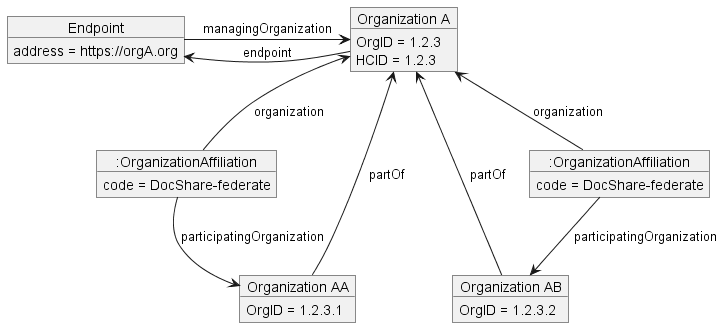
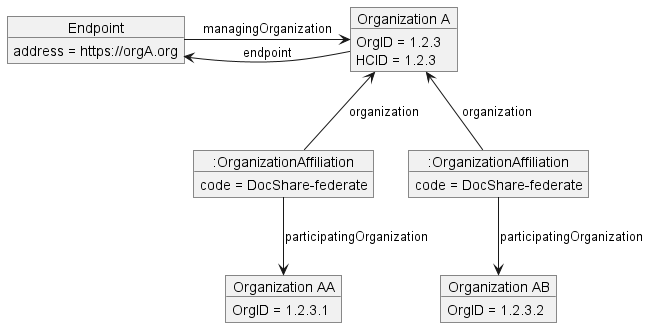
Add directory perspective

diff --git a/topologies.md b/topologies.md
@@ -154,6 +154,14 @@ The Responding Gateway is the access point for actors belonging to other network
 Network Gateways expose the same interfaces and are interacted with in the same way as community gateways. The difference is that a Network Gateway might provide access to several communities. 
 Therefore, where network gateways are used, participants can interact with the network gateway in the same way as a community gateway, with the caveat that the network gateway might process information for several Home Community IDs. 
 
+### Transparent Proxy
+
+A **Transparent Proxy** is similar to a network gateway in that it brokers access across network boundaries. However, it is different in that a Transparent Proxy has no internal business logic - it exists solely to broker trust across the network boundary, and possibly provide translation services. 
+
+For example, suppose network 1 exists and is running smoothly, with trust between nodes being managed by a Certificate Authority internal to the network. However, that network then wants to join a higher level network, network 2, so its participants get access to the participants of the higher level, and vice versa. In order to ease the burden of federating trust across the multiple networks, network 1 might introduce a transparent proxy into its infrastructure. That proxy would trust, and be trusted by, the members of network 1, and also the other members of the higher level network 2. The transparent proxy would simply forward requests and responses in both directions across the network boundary, accessing network 1 on behalf of network 2, and network 2 on behalf of network 1. 
+
+A transparent proxy need not be represented in a directory, because systems on the network will not necessarily be aware of its existence. From their perspective, they are talking directly to the system behind the proxy, thus why the proxy is "transparent". 
+
 ### Central Network Directory
 
 Systems in a network require a method for discovering one another. 
@@ -439,13 +447,16 @@ Finally, the Practitioner and PractitionerRole Resources provide information abo
 They are relevant to DocumentSharing in that they will commonly be referenced in documents and their metadata, but they are also relevant for message delivery use cases in the event a message needs to be delivered to an individual. 
 
 Directory policy will dictate the relationships between these Resources in the directory. 
-A key decision that needs to be made is the primary hierarchy of the directory, that is, what Organization.partOf represents. 
+A key decision that needs to be made is the primary hierarchy of the directory, i.e. what Organization.partOf represents. 
 If the directory is comprehensive, it will need to represent multiple hierarchies, and so all but one will need to be represented using OrganizationAffiliation Resources rather than Organization.partOf relationships. 
 The value set of OrganizationAffiliation.code will also be critically determined by the directory policy, since consumers of the directory will need to know how to interpret each hierarchy. 
+When deciding how Organization, Endpoint, and OrganizationAffiliation Resources should be layed out in the directory, the trust policy of the network and the perspective of actors in the directory should be considered. 
+Nodes in the network will need to be able to determine which endpoints are reachable by them from both an IP networking and a trust perspective. 
+Careful planning of the directory structure can facilitate the programmatic discovery of electronically reachable Organizations. 
 
 ### Indicating Document Sharing Connectivity
 
-Document Sharing relationships might be expressed in the directory via Organization.partOf or by use of the OrganizationAffiliation Resource.
+As stated previously, document Sharing relationships might be expressed in the directory via Organization.partOf or by use of the OrganizationAffiliation Resource.
 
 Organization.partOf is the simplest way to represent a relationship between two Organizations.
 When child organizations have a partOf relationship with a parent, there is ambiguity around whether requesting data from, or delivering messages to, the parent organization will return data from, or route the message to, the child organizations. 
@@ -454,15 +465,25 @@ The DocShare-federate code implies that children are accessible for all document
 mCSD might declare a more granular set of OrganizationAffiliation codes in the future to help facilitate this level of nuance.
 
 Because the use of partOf is not explicit in whether it signifies that a parent Organization provides document sharing access to its children, directory policy will need to clarify the meaning of partOf with respect to Document Sharing. 
-Possible clarifications would include:
+Directory policy that declares organizational hierarchy via partOf implies accessibility to child entries, meaning:
+- For FHIR REST endpoints, the URL is simply the Service Base URL as specified in [FHIR R4 3.1.0.1.2](http://hl7.org/fhir/R4/http.html#general). 
+Clients can expect to find resources related to Organizations A, B and C.
+- For XCA endpoints, a client querying Organization A for documents (e.g., using \[ITI-38\]) may receive documents from Organizations A, B and C. 
+- For XDR endpoints, a client sending a Provide and Register Document Set-b (\[ITI-41\]) request to Organization A can optionally specify Organizations B and/or C in intendedRecipient.
+- For MHD endpoints, a client sending a Provide Document Bundle (\[ITI-65\]) request to Organization A can optionally specify Organizations B and/or C in intendedRecipient.
+
+Examples of this kind of federated structure are shown in [ITI TF-1: Appendix E.9](https://profiles.ihe.net/ITI/TF/Volume1/ch-E.html#E.9.3) for XCA Responding Gateways.
+
+Possible declarations of partOf relationships could include:
 - Declaring that partOf shall be used to signify a Document Sharing relationship rather than or in addition to business relationships.
-In this case, OrganizationAffiliation might not be used, but this case is also the most restrictive in preventing the directory from acquiring new, more comprehensive data sets in the future. 
+In this case, OrganizationAffiliation might not be used, but this case is also the most restrictive and least capable of conveying hierarchical nuance. 
 - Declaring that partOf may indicate that the parent provides Document Sharing Access, but only if the child Organization in question has no Endpoints of its own and no OrganizationAffiliation resources with it as a participatingOrganization and a code indicating document sharing access. 
 - Declaring that partOf has no relationship to document sharing and any organizations that provide document sharing access to children must be linked to the children with an OrganizationAffiliation with an appropriate code. 
 This is the most explicit policy, but one that might be operationally cumbersome to maintain. 
 
-In all three cases, the Endpoint Discovery Algorithm in section below will identify a suitable endpoint if one exists. 
-However, it might be ambiguous whether a particular child organization can have data retrieved through its parent when partOf is used and both the child and the parent have endpoints, or when children are in the directory for informational purposes and do not actually have document sharing available. 
+In all three cases, the Endpoint Discovery Algorithm later in this section will identify an endpoint if one exists. 
+However, the endpoint discovery algorithm will require further configuration to align the notion of a "suitable" endpoint with directory policy. 
+For example, if the directory policy declares that Organization.partOf shall not be used to convey document sharing relationships, then the Endpoint Discovery Algorithm should be configured to not traverse those relationships. 
 
 ### Example Community Directory Layouts
 
@@ -478,20 +499,19 @@ This results the the simplest case shown below:
 
 **Figure 1:46.8.1-1: Organization-specific Endpoint Hosted by the Organization**
 
-Suppose instead Organization A is a subsidiary of its parent, B. B provides IT services and support to its subsidiaries, but the subsidiaries have complete control over their endpoints including the data they return and the trust relationships with those that might want access to the endpoint. 
-In this case, B would be the managing organization and A is part of B, but the Endpoint is pointed at by Organization A to communicate that the Endpoint is logically "owned by" A:
+Suppose instead Organization A is a subsidiary of its parent, B. B provides IT services and support to its subsidiaries, but each subsidiary has a unique document sharing endpoint that behaves identically to if it had hosted its own endpoint. The Endpoint is pointed at by Organization A to communicate that the Endpoint is logically "owned by" A, while it points to B as the managingOrganization to indicate that B is providing technical support for the endpoint:
 
 ![Organization Specific Endpoint Hosted by a Parent](images/dir-org-specific-endpoint-parent.png)
 
 **Figure 1:46.8.1-2: Organization-specific Endpoint Hosted by Parent**
 
-Suppose a similar relationship between organizations C and D, but where D is not a parent organization to C, rather it is a third party affiliate that provides IT services and support. In that case, use of the OrganizationAffiliation resource is more appropriate:
+Suppose a similar relationship between organizations C and D, but where D is not a parent organization to C, rather it is a third party affiliate that provides IT services and support. In that case, the OrganizationAffiliation Resource might be used to convey the relationship rather than Organization.partOf:
 
 ![Organization Specific Endpoint Hosted by an Affiliate](images/dir-org-specific-endpoint-affil.png)
 
 **Figure 1:46.8.1-3: Organization-specific Endpoint Hosted by Affiliation**
 
-Another similar relationship between E and F might exist, but E handles support for other entities on the network. In that case, E is still the managing organization, and F need not be represented in the directory at all:
+Another similar relationship between E and F might exist, but E handles network support for its own endpoint. In that case, E is still the managing organization, and F need not be represented in the directory at all:
 
 ![Organization Specific Endpoint Hosted By Unrepresented Intermediary](images/dir-org-specific-endpoint-inter.png)
 
@@ -499,8 +519,13 @@ Another similar relationship between E and F might exist, but E handles support 
 
 Consider another pair of organizations, G and H. H provides document sharing infrastructure services to G by providing G with an endpoint specific to its organization, but H manages the endpoint entirely, including managing trust for outside entities. 
 That is to say, outside entities can exchange data with G if they have a trust relationship with H. 
+In this situation, it can be said that H is acting as a transparent proxy for G. 
 
-In this case, it is more appropriate to point to the Endpoint for G from the OrganizationAffiliation Resource that connects G and H, to indicate that while the Endpoint provides data for G, it really belongs to H from a trust perspective. 
+Pointing to G's Endpoint from an OrganizationAffiliation linking G to H is likely to be a good choice to represent this situation. 
+If the endpoint were to be pointed to by H, it is not clear that data for H would not be returned by that endpoint, and H might have multiple affiliated organizations for which it needs to provide endpoints. 
+Pointing at G's endpoint from G's Organization resource could work if the directory enforces that only a single route to G exist. 
+However, if G needs multiple endpoints to support different affiliated organizations that provide access to it, then it would be challenging to differentiate the different endpoints attached to G. 
+In this example, OrganizationAffiliation allows the Endpoint to be declared specific to G while still making it clear that it is affiliated with H. 
 
 ![Organization Specific Endpoint Controlled by Affiliate](images/dir-org-specific-endpoint-from-affil.png)
 
@@ -517,51 +542,38 @@ An organization might be a member of, and reachable by, multiple networks. If ea
 #### Endpoint to a Structure
 
 It is possible for an organization with an endpoint, such as Organization A, to have other Organizations that point to it via partOf. 
-This would be appropriate in the case of subsidiaries or departments within Organization A:
+This would be commonly used in the case of subsidiaries or departments within Organization A:
 
 ![Endpoint to Parent Organization](images/dir-endpoint-to-org-hierarchy.png)
 
 **Figure 1:46.8.2-1: Endpoint to Parent Organization**
 
-Directory policy will determine whether organizational hierarchy via partOf implies accessibility to child entries, for example:
-- For FHIR REST endpoints, the URL is simply the Service Base URL as specified in [FHIR R4 3.1.0.1.2](http://hl7.org/fhir/R4/http.html#general). 
-Clients can expect to find resources related to Organizations A, B and C.
-- For XCA endpoints, a client querying Organization A for documents (e.g., using \[ITI-38\]) may receive documents from Organizations A, B and C. 
-- For XDR endpoints, a client sending a Provide and Register Document Set-b (\[ITI-41\]) request to Organization A can optionally specify Organizations B and/or C in intendedRecipient.
-- For MHD endpoints, a client sending a Provide Document Bundle (\[ITI-65\]) request to Organization A can optionally specify Organizations B and/or C in intendedRecipient.
-
-Examples of this kind of federated structure are shown in [ITI TF-1: Appendix E.9](https://profiles.ihe.net/ITI/TF/Volume1/ch-E.html#E.9.3), for XCA Responding Gateways.
-
-Because the cardinality of Organization.partOf is 1..1, directories that wish to represent more than one hierarchy, or a non-business hierarchy, might choose to use OrganizationAffiliation to expose those hierarchies instead. 
 The following shows the same Organization hierarchy, but using OrganizationAffiliation instead of partOf to declare the relationship:
 
 ![Endpoint to Parent Organization with OrgAffiliation](images/dir-endpoint-to-org-affiliates.png)
 
 **Figure 1:46.8.2-1: Endpoint to Parent Organization with OrganizationAffiliation**
 
-An OrganizationAffiliation resource without an applicable code would not imply any document sharing connectivity, as OrganizationAffiliation is used for a variety of reasons outside of document sharing. 
+Directories that will have Organizations with partOf relationships where both Organizations have endpoints should have a way to distinguish whether the parent endpoint provides access to data from the child. 
+Since OrganizationAffiliation might be used to represent several kinds of hierarchies, directory policy will dictate when OrganizationAffiliation implies document sharing access. 
+A common policy would be to specify a value set for OrganizationAffiliation.code and a value within that set that implies document sharing access. 
 
-Directories that will have Organizations with partOf relationships where both Organizations will have endpoints will likely not want to use partOf to imply connectivity. 
-Such networks might be architected in a way that causes the parent organization's Endpoint to not be capable of returning data for the child organization.
-Of course, it could also be the case that the parent's Endpoint does return data for the child, but the child's Endpoint is simply more targeted in its scope. 
-
-Because of this, directory policy might dictate that an OrganizationAffiliation Resource should be used to express federated document sharing. 
-
-In such a directory, the below relationship would not imply document sharing federation:
+Suppose a directory policy stated that parent Organizations provide access to child organizations only when linked by an OrganizationAffiliation Resource where OrganizationAffiliation.code=DocShare-federate. In such a directory, the below relationship would not imply document sharing federation:
 
 ![Endpoints to Both Parent and Child Organizations](images/dir-endpoint-to-child-hierarchy.png)
 
 **Figure 1:46.8.2-1: Endpoints to Both Parent and Child Organizations**
 
-If Organization A did provide document sharing access to Organization AA, then an explicit OrganizationAffiliation with a directory defined code would be declared:
+If Organization A did provide document sharing access to Organization AA, then an explicit OrganizationAffiliation with code=DocShare-federate would be declared:
 
 ![Endpoints to Both Parent and Child Organizations with OrgAffiliation](images/dir-endpoint-to-child-affiliate.png)
 
 **Figure 1:46.8.2-1: Endpoints to Both Parent and Child Organizations with OrganizationAffiliation**
 
 In a multi-layered network, it is likely that different solutions will be used at different levels. 
-Here, Organization G has three subsidiaries, Organizations GA, GB, and GC, as well as a document sharing affiliation with Organization F. 
-Organization F's endpoint would provide document sharing access to all four organizations:
+Here, Organization J has three subsidiaries, Organizations JA, JB, and JC, as well as a document sharing affiliation with Organization I. 
+Suppose the directory policy stated that document sharing access could be assumed when there was an OrganizationAffiliation relationship with OrganizationAffiliation.code=DocShare-federate or when Organization.partOf was the only path to a parent organization. 
+Then, if Organization I's endpoint would provide document sharing access to all four organizations, it would be represented as so in the directory:
 
 ![Endpoint to a multi-layered structure](images/dir-endpoint-to-hybrid-org-structure.png)
 
@@ -581,9 +593,10 @@ For example, endpoints might be needed for IHE XCPD, XCA, XCDR, and a FHIR endpo
 The following example shows the steps used by a Care Services Selective Consumer to navigate a directory to find suitable electronic service Endpoints to a desired Organization. 
 A "suitable" Endpoint is one that can provide the service needed by the consumer. 
 This typically means it has a connectionType and possibly an endpoint specificType that matches the transaction it wishes to initiate, and an Active status. 
-The example uses the mCSD-profiled OrganizationAffiliation that indicates federated connectivity for Document Sharing (e.g., affiliated organizations may be addressed as intendedRecipient). 
+The example uses Organization.partOf and the mCSD-profiled OrganizationAffiliation with codes indicating federated connectivity for Document Sharing (e.g., affiliated organizations may be addressed as intendedRecipient). 
 The algorithm below uses depth-first search and guarantees that if an endpoint is available, it will be found. 
 Implementations might wish to enhance the algorithm to search in alternative ways depending on their deployment environment and path preferences. 
+Implementations are likely to have to adjust the below algorithm to account for directory policy, for example, policies that forbid the use of Organization.partOf to indicate document sharing access. 
 It is also for illustrative purposes only and does not protect against invalid data such as missing elements, hierarchical loops, or other programming hazards. 
 
 #### Endpoint Discovery Algorithm
@@ -624,11 +637,21 @@ Here:
 * The community with HCID 1.2.7 is a member of Lower Network A
 * The community with HCID 1.2.6 is a member of Lower Network A
 
-The directory for Lower Network A will have endpoints for communities 1.2.7 and 1.2.6, and for the network gateways. 
-The directory for the Top Level Network would need to have communities 1.2.7 and 1.2.6 in it, but it should not have their endpoints. 
-This is because their endpoints are only accessible to members of Lower Network A; members of Top Level Network need to access them via the Lower Network A gateways. 
-If the endpoints for 1.2.7 were published in the Top Level Network directory, then the endpoint discovery algorithm from Community 1.2.8's perspective might identify those endpoints, but they would not work for 1.2.8. 
-To resolve this problem, each network directory should have only the endpoints accessible to network members in them. 
+We will start at the top level and work our way down:
+
+The Top Level Network has two direct members, A and B. These two members can communicate directly with each other by using the directory and trust policies provided by the Top Level Network. 
+However, each network cannot directly access the lower organizations in the network - they must use the network gateways for that access. 
+This would be represented in the Top Level Network directory as follows:
+
+![Top Level Diagram](images/mln-top-level-dir.png)
+
+**Figure 1.3-1: Top Level Directory Layout**
+
+In Lower Network A, Communities 1.2.6 and 1.2.7 can communicate directly with one another, but to reach Community 1.2.8, they would communicate via the Lower Network A gateways. This implies a slightly different directory representation:
+
+![Lower Level Diagram](images/mln-level-a-directory.png)
+
+**Figure 1.3-1: Lower Level Directory Layout**
 
 ### Inclusion of Message Delivery Addresses
 
